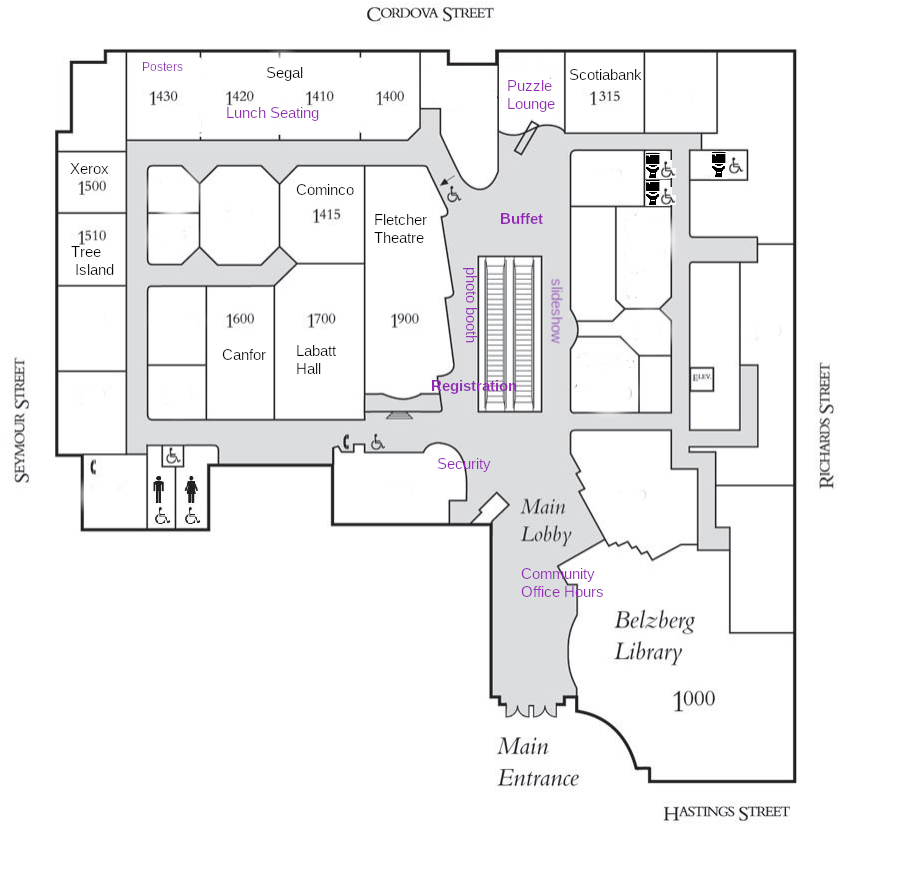
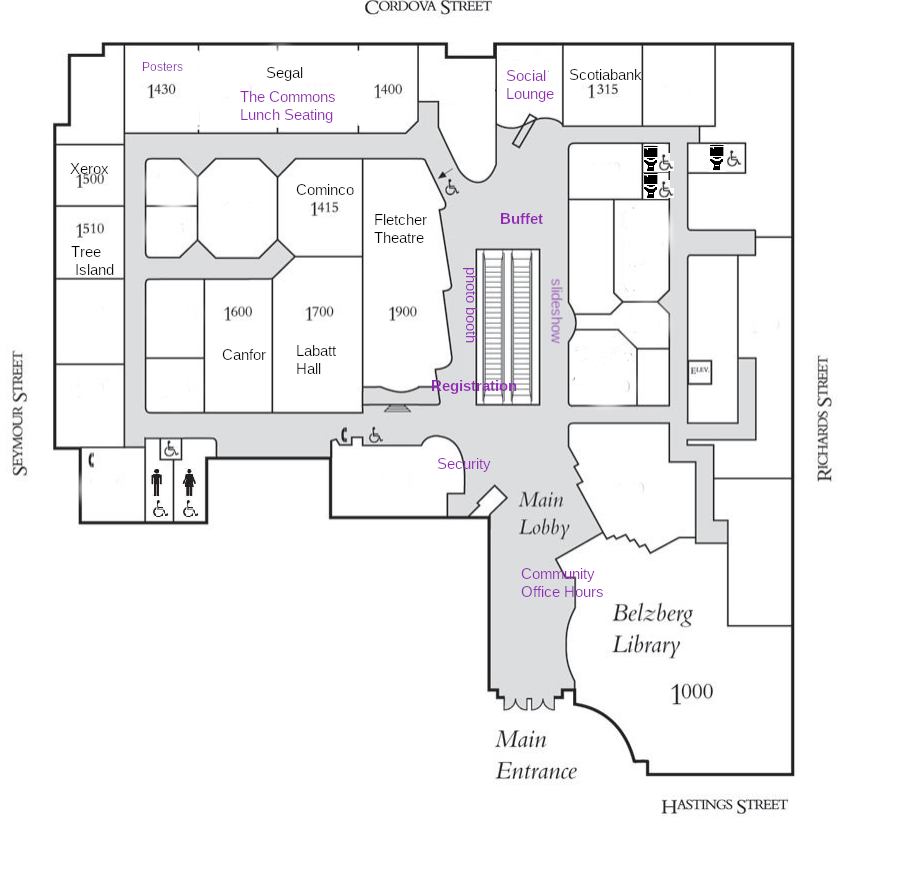
Update venue map to match names on signs (#118)

Pull request: Venue Map update

Changed region(s): [[0.0, 0.0, 0.9211, 0.9544], [0.6754, 0.6773, 0.7982, 0.8312], [0.4298, 0.3387, 0.4912, 0.3694]]

diff --git a/root/attend/venue/+page.svelte b/root/attend/venue/+page.svelte
@@ -78,13 +78,13 @@
   floor.
 </p>
 
-<h3 id="segal">Segal Centre</h3>
+<h3 id="segal">Segal Centre(The Commons)</h3>
 <p>
   The Segal Centre is rooms 1400-1410 is located on the main floor. Segal will
-  be setup with tables and chairs for eating lunch, socializing or working
-  during all 4 days of the conference. Feel free to drop into Segal anytime
-  during the conference. Posters showcasing contributions and projects within
-  our community will also be on display in Segal
+  be setup as "The Commons" with tables and chairs for eating lunch, socializing
+  or working during all 4 days of the conference. Feel free to drop into The
+  Commons anytime during the conference. Posters showcasing contributions and
+  projects within our community will also be on display in The Commons
 </p>
 
 <h3 id="Labatt">Labatt Hall</h3>
@@ -99,7 +99,7 @@
   20'th and 21st
 </p>
 
-<h3 id="Lounge">Puzzle Lounge</h3>
-At the far end of the concourse, overlooking Vancouver Harbour the Puzzle Lounge is
+<h3 id="Lounge">Social Lounge</h3>
+At the far end of the concourse, overlooking Vancouver Harbour the Social Lounge is
 our peaceful socializing area. Outfitted with puzzles and games and comfortable chairs,
 a great place to meet other attendees and enjoy some low pressure relaxation.